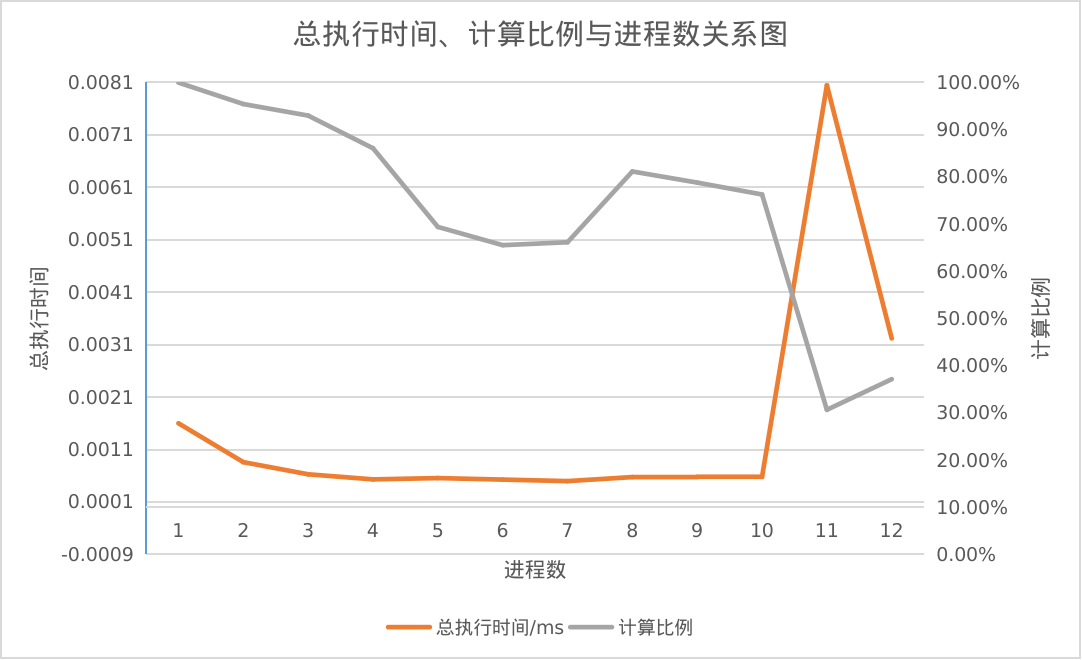
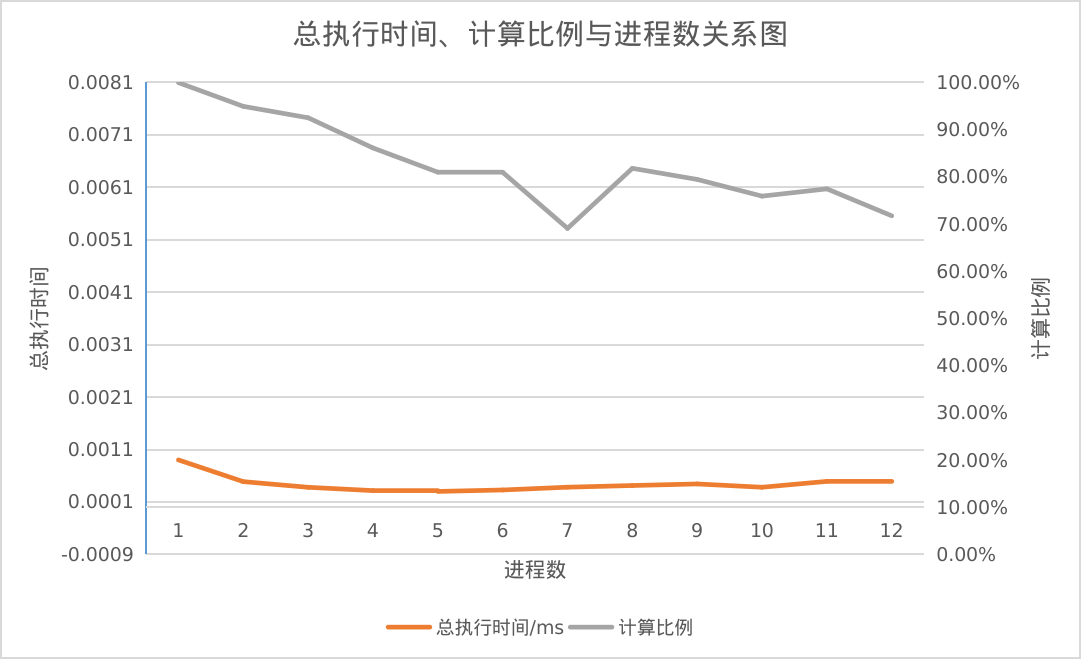
非零元均匀的行划分

diff --git a/lab3/SpMV.cc b/lab3/SpMV.cc
@@ -44,42 +44,57 @@ typedef struct Statistic {
     double cal_per;
 }Statistic;
 
+void cutRows(int cut[], int nprocs, int r_procs, CSR &s) {
+    int row_num = s.row_num;
+    cut[0] = 0;
+    int row = 0;
+    for (int i = 1; i <= nprocs; i++) {
+        while (i*r_procs > s.ptr[row]) {
+            row++;
+        }
+        cut[i] = row;
+    }
+    cut[nprocs] = s.row_num;
+}
+
 #ifndef SERIAL
 Statistic MPICSRSpMV(int argc, char **argv, int nprocs, int myrank) {
     MPI_Comm_rank(MPI_COMM_WORLD, &myrank);
     double start, end, duration, total_start, total_end;
-    double t_cal, t_collect;
+    double t_cal, t_collect, total_duration = 1;
     double tag_res = 1;
     CSR s = input();
     initVec(s);
     int col_num = s.col_num;
     int row_num = s.row_num;
-    int r_procs = s.row_num/nprocs;
+    int r_procs = s.nnz/nprocs;
     double *local_res;
     double *res;
-    int *idx = s.idx+s.ptr[myrank*r_procs];
-    double *val = s.val+s.ptr[myrank*r_procs];
-    int *ptr = s.ptr+myrank*r_procs;
-    int left = row_num - myrank*r_procs;
+    int *cut = (int *)malloc(sizeof(int)*(nprocs+1));
+    cutRows(cut, nprocs, r_procs, s);
+    int *ptr = s.ptr+cut[myrank];
+    int *idx = s.idx+*ptr;
+    double *val = s.val+*ptr;
+    int left = cut[nprocs] - cut[nprocs-1];
     MPI_Barrier(MPI_COMM_WORLD);
     total_start = MPI_Wtime();
     START_TIMING
     if (myrank == nprocs-1) {  //  master
         res = (double*)malloc(sizeof(double)*(s.row_num));
-        int nnz = countNNZ(s, myrank*r_procs, row_num);
+        int nnz = countNNZ(s, cut[myrank], cut[myrank+1]);
         local_res = (double *)malloc(sizeof(double)*left);
         CSR local_s = {left, col_num, nnz, ptr, idx, val, s.vec, local_res};
         CSRSpMV(local_s, ptr[0]);
-        for (int i = (nprocs-1)*r_procs; i < row_num; i++) {
-            res[i] = local_res[i-(nprocs-1)*r_procs];
+        for (int i = cut[myrank]; i < cut[myrank+1]; i++) {
+            res[i] = local_res[i-cut[myrank]];
         }
     } else {
-        int nnz = countNNZ(s, myrank*r_procs, (myrank+1)*r_procs);
-        local_res = (double *)malloc(sizeof(double)*r_procs);
-        CSR local_s = {r_procs, col_num, nnz, ptr, idx, val, s.vec, local_res};
+        int nnz = countNNZ(s, cut[myrank],  cut[myrank+1]);
+        int local_row_num = cut[myrank+1]-cut[myrank];
+        local_res = (double *)malloc(sizeof(double)*(local_row_num));
+        CSR local_s = {local_row_num, col_num, nnz, ptr, idx, val, s.vec, local_res};
         CSRSpMV(local_s, ptr[0]);
-        MPI_Send(local_res, r_procs, MPI_DOUBLE, nprocs-1, tag_res, MPI_COMM_WORLD);
-        free(local_res);
+        MPI_Send(local_res, local_row_num, MPI_DOUBLE, nprocs-1, tag_res, MPI_COMM_WORLD);
     }
     freeAll(s);
     GET_TIME
@@ -88,18 +103,18 @@ Statistic MPICSRSpMV(int argc, char **argv, int nprocs, int myrank) {
     if (myrank == nprocs-1) {
         MPI_Status status;
         for (int i = 0; i < nprocs-1; i++) {
-            MPI_Recv(res+i*r_procs, r_procs, MPI_DOUBLE, i, tag_res, MPI_COMM_WORLD, &status);
+            MPI_Recv(res+cut[i], cut[i+1]-cut[i], MPI_DOUBLE, i, tag_res, MPI_COMM_WORLD, &status);
         }
         GET_TIME
         t_collect = duration;
         total_end = MPI_Wtime();
-        double total_duration = total_end - total_start;
+        total_duration = total_end - total_start;
         printResult(res, row_num);
         free(res);
-        free(local_res);
-        return {total_duration, t_collect/total_duration, t_cal/total_duration};
     }
-    return {};
+    free(cut);
+    free(local_res);
+    return {total_duration, t_collect/total_duration, t_cal/total_duration};
 }
 #endif
 
@@ -117,9 +132,11 @@ int main(int argc, char **argv)
     for (int i = 0; i < LOOPS; i++) {
         #ifndef SERIAL
             auto tmp_result = MPICSRSpMV(argc, argv, nprocs, myrank);
-            duration += tmp_result.total_time;
-            cal_per += tmp_result.cal_per;
-            collect_per += tmp_result.collect_per;
+            if (myrank == nprocs-1) {
+                duration += tmp_result.total_time;
+                cal_per += tmp_result.cal_per;
+                collect_per += tmp_result.collect_per;
+            }
         #else
             serialSpMV();
         #endif
